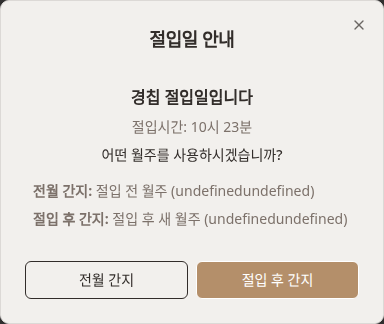
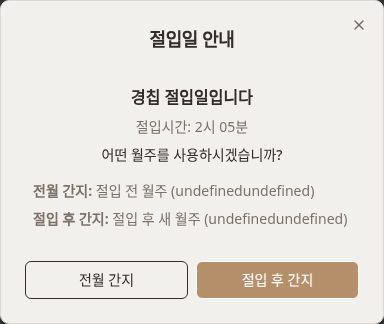
Update solar term calculations and data fetching for accuracy
Adjust KST time conversions in solar term calculations, update hardcoded data, and modify API fetching logic to prioritize accurate solar term data from external sources.

Replit-Commit-Author: Agent
Replit-Commit-Session-Id: ebd4d295-de99-4597-97e6-888286caa1c9
Replit-Commit-Checkpoint-Type: intermediate_checkpoint
Replit-Commit-Screenshot-Url: https://storage.googleapis.com/screenshot-production-us-central1/307b5d36-52e0-4c24-96f2-0e64f48158bb/ebd4d295-de99-4597-97e6-888286caa1c9/ZMW262T

Changed region(s): [[0.3438, 0.3704, 0.6562, 0.4321]]

diff --git a/server/lib/solar-terms-service.ts b/server/lib/solar-terms-service.ts
@@ -1,4 +1,4 @@
-import { getLunarCalInfo } from './data-gov-kr-service';
+import { getLunarCalInfo, get24DivisionsInfo } from './data-gov-kr-service';
 
 /**
  * 24절기 및 대운수 계산을 위한 절기 서비스
@@ -15,14 +15,14 @@ export const TWENTY_FOUR_SOLAR_TERMS = [
 // 정확한 절입일 하드코딩 데이터 (API 실패 시 사용)
 const HARDCODED_SOLAR_TERMS: Record<number, SolarTermInfo[]> = {
   1958: [
-    // 1958년 정확한 절입일 (UTC 기준)
+    // 1958년 정확한 절입일 (UTC 기준 = KST - 9시간)
     { name: "소한", date: new Date("1958-01-05T23:49:00Z"), sajuMonth: 11 },
     { name: "대한", date: new Date("1958-01-20T10:07:00Z"), sajuMonth: 0 },
-    { name: "입춘", date: new Date("1958-02-04T18:00:00Z"), sajuMonth: 0 },  // ← 정확한 입춘 시각
+    { name: "입춘", date: new Date("1958-02-04T07:49:00Z"), sajuMonth: 0 },  // KST 16:49
     { name: "우수", date: new Date("1958-02-19T06:13:00Z"), sajuMonth: 0 },
-    { name: "경칩", date: new Date("1958-03-05T10:23:00Z"), sajuMonth: 1 },
+    { name: "경칩", date: new Date("1958-03-05T02:05:00Z"), sajuMonth: 1 },  // KST 11:05
     { name: "춘분", date: new Date("1958-03-20T09:06:00Z"), sajuMonth: 0 },
-    { name: "청명", date: new Date("1958-04-04T15:02:00Z"), sajuMonth: 2 },
+    { name: "청명", date: new Date("1958-04-04T07:12:00Z"), sajuMonth: 2 },  // KST 16:12
     { name: "곡우", date: new Date("1958-04-20T04:27:00Z"), sajuMonth: 0 },
     { name: "입하", date: new Date("1958-05-05T08:10:00Z"), sajuMonth: 3 },
     { name: "소만", date: new Date("1958-05-20T20:59:00Z"), sajuMonth: 0 },
@@ -149,7 +149,7 @@ async function fetchSolarTermsFromDataGovKr(year: number): Promise<SolarTermInfo
     const terms: SolarTermInfo[] = [];
     
     for (const item of solarTermItems) {
-      // locdate: "YYYYMMDD", dateName: "소한", kst: "HH:mm"
+      // locdate: "YYYYMMDD", dateName: "소한", kst: "HH:mm" (한국 시간)
       const dateStr = item.locdate;
       const year = parseInt(dateStr.substring(0, 4));
       const month = parseInt(dateStr.substring(4, 6));
@@ -158,7 +158,8 @@ async function fetchSolarTermsFromDataGovKr(year: number): Promise<SolarTermInfo
       const timeStr = item.kst || "00:00";
       const [hour, minute] = timeStr.split(':').map((s: string) => parseInt(s));
       
-      const termDate = new Date(Date.UTC(year, month - 1, day, hour, minute));
+      // KST(UTC+9)를 UTC로 변환: 9시간을 빼야 함
+      const termDate = new Date(Date.UTC(year, month - 1, day, hour - 9, minute));
       const sajuMonth = SOLAR_TERM_TO_SAJU_MONTH[item.dateName] ?? 0;
       
       terms.push({
@@ -244,17 +245,10 @@ export async function getSolarTermsForYear(year: number): Promise<SolarTermInfo[
     return solarTermsCache.get(year)!;
   }
   
-  // 0. 하드코딩 데이터 확인 (정확한 절입일이 있는 경우)
-  if (HARDCODED_SOLAR_TERMS[year]) {
-    console.log(`✨ 하드코딩된 정확한 절입일 사용: ${year}년`);
-    const hardcodedTerms = HARDCODED_SOLAR_TERMS[year];
-    solarTermsCache.set(year, hardcodedTerms);
-    return hardcodedTerms;
-  }
-  
-  // 1. data.go.kr API 시도 (모든 년도) - 현재 공휴일만 반환하므로 실패
+  // 1. data.go.kr API 먼저 시도 (정확한 절입시간 포함)
   const dataGovTerms = await fetchSolarTermsFromDataGovKr(year);
   if (dataGovTerms && dataGovTerms.length > 0) {
+    console.log(`✅ data.go.kr API에서 ${year}년 절입일 데이터 로드 성공`);
     solarTermsCache.set(year, dataGovTerms);
     return dataGovTerms;
   }
@@ -263,12 +257,21 @@ export async function getSolarTermsForYear(year: number): Promise<SolarTermInfo[
   if (year >= 2006) {
     const distBeTerms = await fetchSolarTermsFromDistBe(year);
     if (distBeTerms && distBeTerms.length > 0) {
+      console.log(`✅ holidays.dist.be API에서 ${year}년 절입일 데이터 로드 성공`);
       solarTermsCache.set(year, distBeTerms);
       return distBeTerms;
     }
   }
   
-  // 3. Fallback: 로컬 근사치 계산
+  // 3. 하드코딩 데이터 확인 (정확한 절입일이 있는 경우)
+  if (HARDCODED_SOLAR_TERMS[year]) {
+    console.log(`✨ 하드코딩된 정확한 절입일 사용: ${year}년`);
+    const hardcodedTerms = HARDCODED_SOLAR_TERMS[year];
+    solarTermsCache.set(year, hardcodedTerms);
+    return hardcodedTerms;
+  }
+  
+  // 4. Fallback: 로컬 근사치 계산
   console.log(`⚠ 모든 외부 API 실패, 로컬 근사치로 계산: ${year}년`);
   const all24Terms = getAll24SolarTermsForYear(year);
   solarTermsCache.set(year, all24Terms);

diff --git a/client/src/pages/SajuInput.tsx b/client/src/pages/SajuInput.tsx
@@ -85,12 +85,16 @@ async function checkSolarTermDay(year: number, month: number, day: number): Prom
       
       // ±1일 범위 내에 있으면 절입일로 간주
       if (diffDays <= 1) {
+        // UTC 시간을 KST(UTC+9)로 변환
+        const kstHour = (termDate.getUTCHours() + 9) % 24;
+        const kstMinute = termDate.getUTCMinutes();
+        
         return {
           isSolarTerm: true,
           termInfo: {
             name: term.name,
-            hour: termDate.getUTCHours(),
-            minute: termDate.getUTCMinutes()
+            hour: kstHour,
+            minute: kstMinute
           }
         };
       }
@@ -278,8 +282,8 @@ export default function SajuInput() {
         
         // 전월 간지와 절입 후 간지 계산
         const birthHour = 12; // 기본값 (시간 정보 없음)
-        const sajuWithPrevious = calculateSaju(solarYear, solarMonth, solarDay, birthHour, true); // 전월 간지
-        const sajuAfter = calculateSaju(solarYear, solarMonth, solarDay, birthHour, false); // 절입 후 간지
+        const sajuWithPrevious = calculateSaju(solarYear, solarMonth, solarDay, birthHour, 0, false, undefined, undefined, true); // 전월 간지
+        const sajuAfter = calculateSaju(solarYear, solarMonth, solarDay, birthHour, 0, false, undefined, undefined, false); // 절입 후 간지
         
         const previousGanji = `${sajuWithPrevious.monthSky}${sajuWithPrevious.monthEarth}`;
         const afterGanji = `${sajuAfter.monthSky}${sajuAfter.monthEarth}`;
